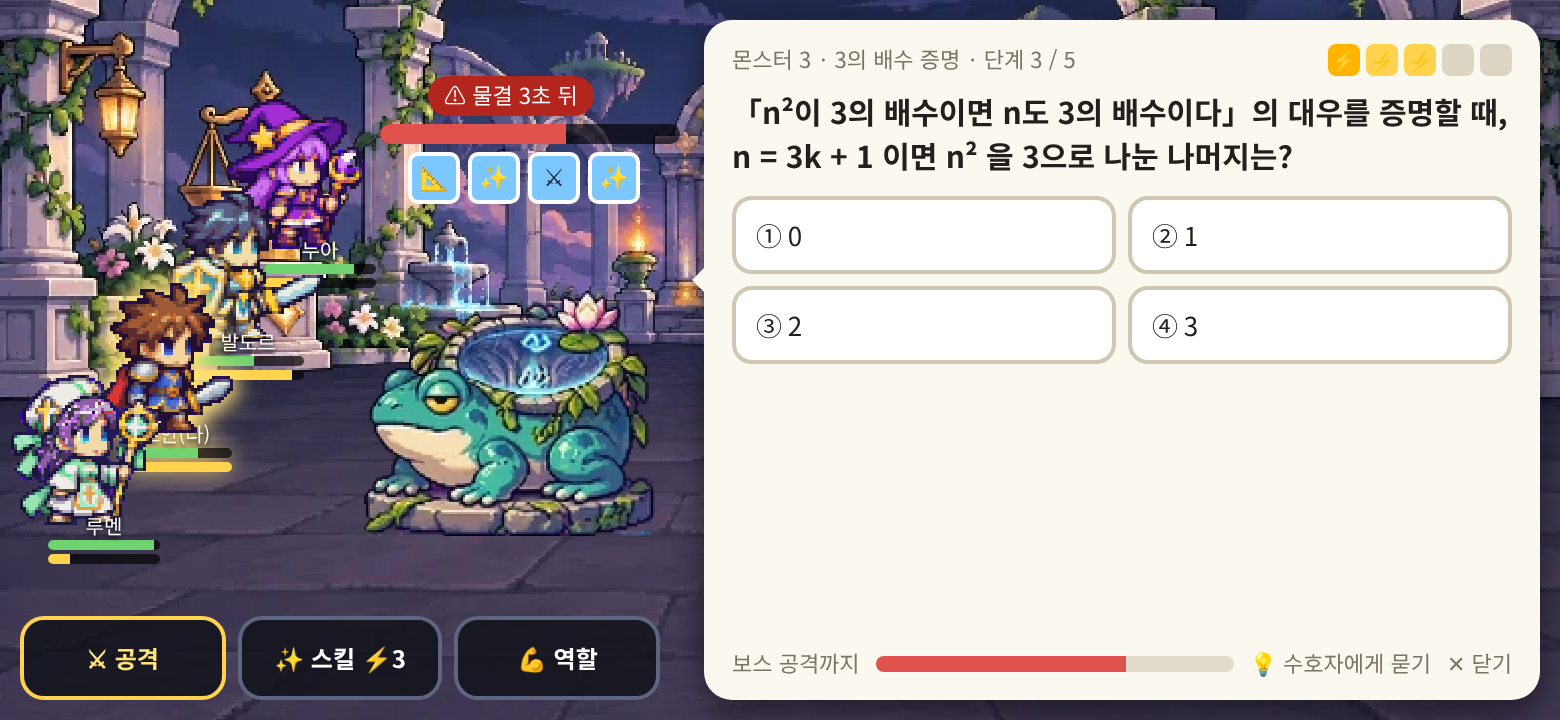
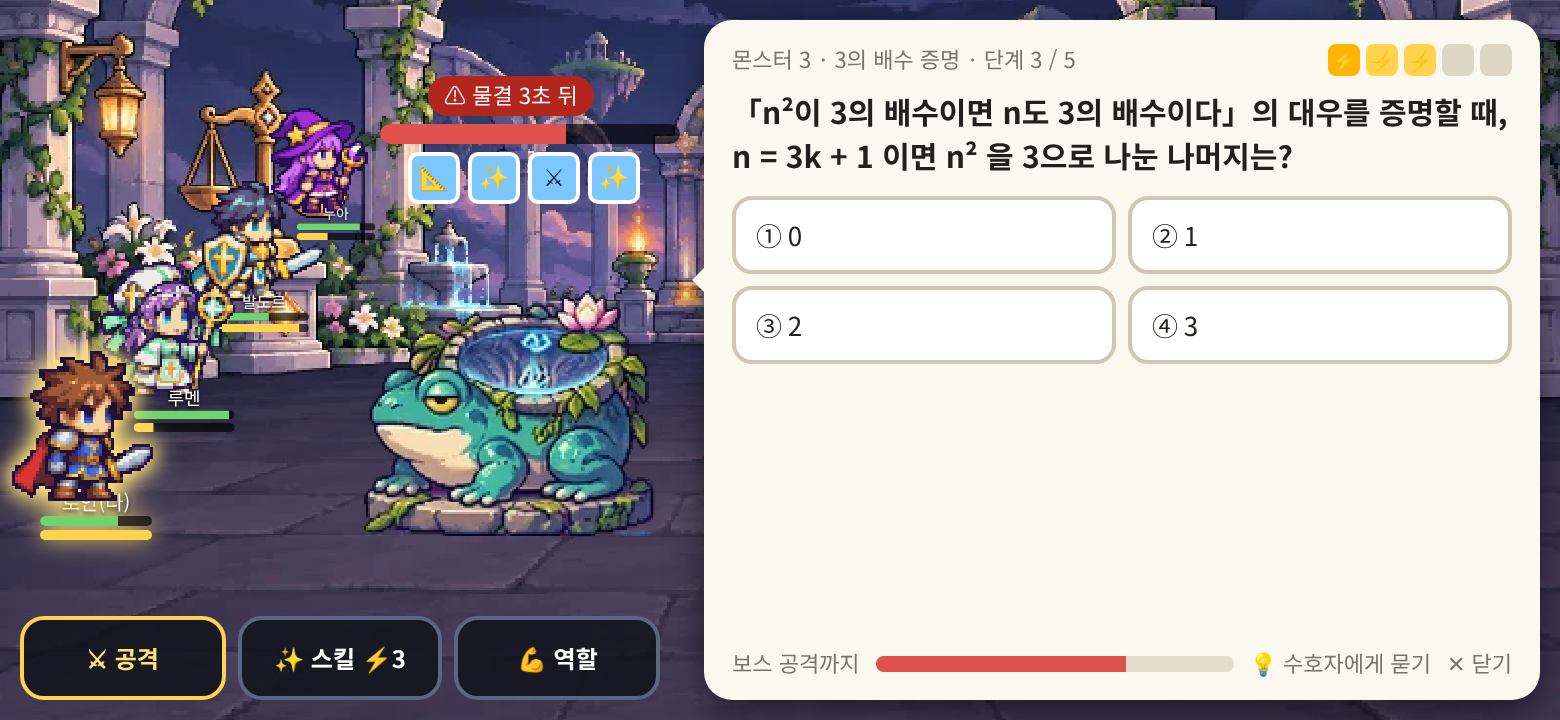
설계: 게시판 던전 화면 — 용사 원근감·내 용사는 맨 아래 가장 크게
Claude-Session: https://claude.ai/code/session_014JJv1gNxiR4EbqPvhG9Ym8

Changed region(s): [[0.0, 0.1222, 0.2462, 0.7944]]

diff --git a/docs/handoff/design/board-atb/mock/real-wide.html b/docs/handoff/design/board-atb/mock/real-wide.html
@@ -33,7 +33,7 @@ body{padding:0;background:#000}.ph{border:0;border-radius:0;background:url(s-bg.
 .h .bar{margin:2px 20px 0}.mon{font-size:0}.mon img{image-rendering:pixelated}
 .me img{filter:drop-shadow(0 0 5px #ffe27a)}
 </style><div class="ph"><div class="life" style="text-shadow:0 1px 3px #000">팀 부활 💖💖💖</div>
-<div class="h" style="left:210px;top:70px"><img src="s-math.png"><i>누아</i><div class="bar hp"><b style="width:80%"></b></div><div class="bar at"><b style="width:40%"></b></div></div><div class="h" style="left:150px;top:112px"><img src="s-paladin.png"><i>발도르</i><div class="bar hp"><b style="width:55%"></b></div><div class="bar at"><b style="width:90%"></b></div></div><div class="h me" style="left:90px;top:154px"><img src="s-sword.png"><i>로안(나)</i><div class="bar hp"><b style="width:70%"></b></div><div class="bar at"><b style="width:100%"></b></div></div><div class="h" style="left:30px;top:196px"><img src="s-priest.png"><i>루멘</i><div class="bar hp"><b style="width:95%"></b></div><div class="bar at"><b style="width:20%"></b></div></div>
+<div class="h" style="left:236px;top:40px;transform:scale(0.7);transform-origin:50% 100%"><img src="s-math.png"><i>누아</i><div class="bar hp"><b style="width:80%"></b></div><div class="bar at"><b style="width:40%"></b></div></div><div class="h" style="left:176px;top:84px;transform:scale(0.8);transform-origin:50% 100%"><img src="s-paladin.png"><i>발도르</i><div class="bar hp"><b style="width:55%"></b></div><div class="bar at"><b style="width:90%"></b></div></div><div class="h" style="left:110px;top:132px;transform:scale(0.9);transform-origin:50% 100%"><img src="s-priest.png"><i>루멘</i><div class="bar hp"><b style="width:95%"></b></div><div class="bar at"><b style="width:20%"></b></div></div><div class="h me" style="left:36px;top:186px;transform:scale(1.0);transform-origin:50% 100%"><img src="s-sword.png"><i>로안(나)</i><div class="bar hp"><b style="width:70%"></b></div><div class="bar at"><b style="width:100%"></b></div></div>
 <div class="mon" style="right:70px;top:70px"><img src="s-mon.png" width="230"></div>
 <div class="bhp" style="right:80px;top:44px;width:210px"><b></b></div><div class="sh" style="right:130px;top:60px"><span>📐</span><span>✨</span><span>⚔</span><span>✨</span></div>
 <div class="warn" style="right:140px;top:18px">⚠ 물결 3초 뒤</div>

diff --git a/docs/handoff/design/board-atb/mock/real-quiz.html b/docs/handoff/design/board-atb/mock/real-quiz.html
@@ -33,7 +33,7 @@ body{padding:0;background:#000}.ph{border:0;border-radius:0;background:url(s-bg.
 .h .bar{margin:2px 20px 0}.mon{font-size:0}.mon img{image-rendering:pixelated}
 .me img{filter:drop-shadow(0 0 5px #ffe27a)}
 </style><div class="ph">
-<div class="h" style="left:112px;top:30px"><img src="s-math.png"><i>누아</i><div class="bar hp"><b style="width:80%"></b></div><div class="bar at"><b style="width:40%"></b></div></div><div class="h" style="left:76px;top:76px"><img src="s-paladin.png"><i>발도르</i><div class="bar hp"><b style="width:55%"></b></div><div class="bar at"><b style="width:90%"></b></div></div><div class="h me" style="left:40px;top:122px"><img src="s-sword.png"><i>로안(나)</i><div class="bar hp"><b style="width:70%"></b></div><div class="bar at"><b style="width:100%"></b></div></div><div class="h" style="left:4px;top:168px"><img src="s-priest.png"><i>루멘</i><div class="bar hp"><b style="width:95%"></b></div><div class="bar at"><b style="width:20%"></b></div></div>
+<div class="h" style="left:120px;top:6px;transform:scale(0.7);transform-origin:50% 100%"><img src="s-math.png"><i>누아</i><div class="bar hp"><b style="width:80%"></b></div><div class="bar at"><b style="width:40%"></b></div></div><div class="h" style="left:84px;top:52px;transform:scale(0.8);transform-origin:50% 100%"><img src="s-paladin.png"><i>발도르</i><div class="bar hp"><b style="width:55%"></b></div><div class="bar at"><b style="width:90%"></b></div></div><div class="h" style="left:44px;top:102px;transform:scale(0.9);transform-origin:50% 100%"><img src="s-priest.png"><i>루멘</i><div class="bar hp"><b style="width:95%"></b></div><div class="bar at"><b style="width:20%"></b></div></div><div class="h me" style="left:0px;top:156px;transform:scale(1.0);transform-origin:50% 100%"><img src="s-sword.png"><i>로안(나)</i><div class="bar hp"><b style="width:70%"></b></div><div class="bar at"><b style="width:100%"></b></div></div>
 <div class="mon" style="left:168px;top:84px"><img src="s-mon.png" width="190"></div>
 <div class="bhp" style="left:190px;top:62px;width:150px"><b></b></div><div class="sh" style="left:204px;top:76px"><span>📐</span><span>✨</span><span>⚔</span><span>✨</span></div>
 <div class="warn" style="left:214px;top:38px">⚠ 물결 3초 뒤</div>

diff --git a/docs/handoff/design/board-atb/mock/bench-cards.js b/docs/handoff/design/board-atb/mock/bench-cards.js
@@ -2,7 +2,7 @@
 const ATBUI = `UI MOCKUP for a landscape phone game screen (pixel-art RPG "Everyone's Dungeon"). ONE image, 16:9 wide (about 1560x720), shown as a single finished game screenshot.
 Art style: match the attached SCREENSHOT exactly for the world — true pixel art heroes (cute chibi, 2–2.5 heads tall, facing RIGHT), a pixel-art monster facing LEFT, a dark torch-lit pixel-art dungeon background. Keep the same heroes, monster and background as in the attached screenshot.
 What to redesign: ONLY the user interface layer (bars, buttons, panels, icons). Replace the plain flat placeholder UI in the screenshot with a polished pixel-RPG interface: chunky pixel frames with a 1-pixel dark navy outline (#1a1228), warm parchment and dark-bronze panels, gold highlights, readable at phone size, big thumb-friendly buttons. Same positions and sizes as in the attached screenshot unless told otherwise.
-Korean text must be written EXACTLY as given in quotes, in a clean bold pixel-style Korean font; do not invent other text. No watermark, no device frame.`;
+HERO LINE-UP RULE (important): the heroes stand in one diagonal line with clear PERSPECTIVE — the hero nearest the viewer is at the BOTTOM-LEFT and drawn largest (100%), each hero behind stands higher and further right and is drawn smaller (about 90%, 80%, 70% for the farthest). The player's own hero, tagged \"(나)\", is ALWAYS the nearest, bottom, largest one with the golden glow.\nKorean text must be written EXACTLY as given in quotes, in a clean bold pixel-style Korean font; do not invent other text. No watermark, no device frame.`;
 const ATBC = [
  ['atb-ui-wide', '① 전투 화면 · 넓게 편 상태', '화면 시안 1장', '게시판 던전 새 판의 기본 전투 화면(문제를 안 열었을 때) — 왼쪽 용사 4명 · 오른쪽 몬스터 · 아래 단추 4개', ['atb-ref-wide.png', 'atb-ref-layout.png'],
 `Screen: BATTLE (wide state).

diff --git a/docs/handoff/design/board-atb/결정.md b/docs/handoff/design/board-atb/결정.md
@@ -154,3 +154,12 @@
 
 - 🔨 강화 = **계정 하나**(용사를 바꿔도 같은 +n) · ⭐ 레벨 · EXP = **계정 하나** · ⚔ 장착 스킬 = 이미 용사마다 · 🏅 칭호 = 계정 하나 → W2 로 용사마다 바뀌는 중 · 산 스킬 · 용사 = 계정 하나.
 - 따라 고쳐 읽기: ① 성장 배율의 레벨 몫 · 강화 몫은 **어느 용사를 골라도 같음** — 용사마다 달라지는 것은 역할 수치 · 계열 · 장착 스킬 등급뿐 ② 각성 필살기 조건 「그 용사 +10」 → **「내 강화 +10」**(+10 이 되면 모든 용사의 필살기가 그 용사의 각성 필살기로 · 판당 1번은 그대로) ③ 용사 고르는 창의 초록 / 빨강 화살표는 HP · 방어 · ATB · 스킬 피해에서만 달라짐.
+
+## 10. 화면 시안 뒤 (같은 날)
+
+> 선생님이 GPT 시안 7장을 보신 뒤 「용사들 원근감 넣어 줘 · 나는 항상 안쪽」 → 선택형
+
+- **용사 줄 = 원근감 뚜렷하게**: 비스듬한 한 줄 · 맨 앞(화면 아래 · 보는 사람과 가장 가까움) 100% → 뒤로 갈수록 위 · 오른쪽 · 작게(90 · 80 · 맨 뒤 70%).
+- **내 용사 = 항상 맨 아래 · 가장 가까운 자리(가장 크게)** · 폰마다 자기 용사가 그 자리에 섬(친구 폰에서는 친구가 그 자리) · 나머지 순서 = 방에 들어온 차례.
+- 자리는 보이는 모양일 뿐 수치 · 맞을 확률에 영향 없음(8절 그대로).
+- 참고 그림 = mock/atb-ref-wide.png · atb-ref-quiz.png (고침) · GPT 시안 = mock/gpt/ (README 에 고칠 곳).

diff --git a/docs/handoff/design/board-atb/정리.md b/docs/handoff/design/board-atb/정리.md
@@ -12,6 +12,7 @@
 | 항목 | 정한 것 |
 |---|---|
 | 방향 | 가로 · 종합실(TV) 같은 넓은 전투 무대가 늘 깔려 있음 |
+| 용사 줄 | 원근감 있는 비스듬한 한 줄(앞 100% → 맨 뒤 70%) · 내 용사는 항상 맨 아래 · 가장 가까운 자리(가장 크게) |
 | 문제를 열면 | 몬스터가 앞으로 걸어 나오고 용사가 왼쪽으로 모임 → 빈 오른쪽에 문제 카드(몬스터를 가리지 않음 · 말풍선 꼬리가 몬스터를 향함) |
 | 넓게 펴지는 때 | 문제를 닫았을 때 · 스킬 · 실드 파괴 · 부활 같은 큰 순간 |
 | 단추 | [공격] [스킬] [역할] [문제 풀기] |
